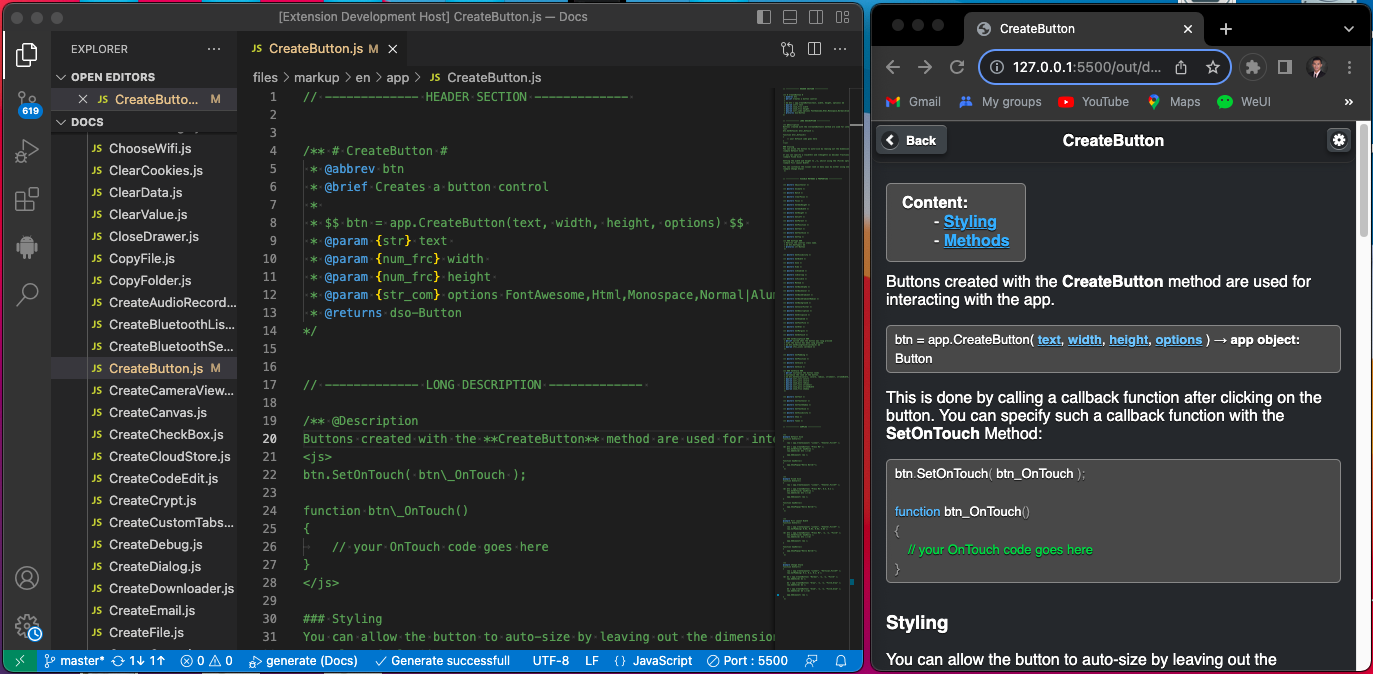
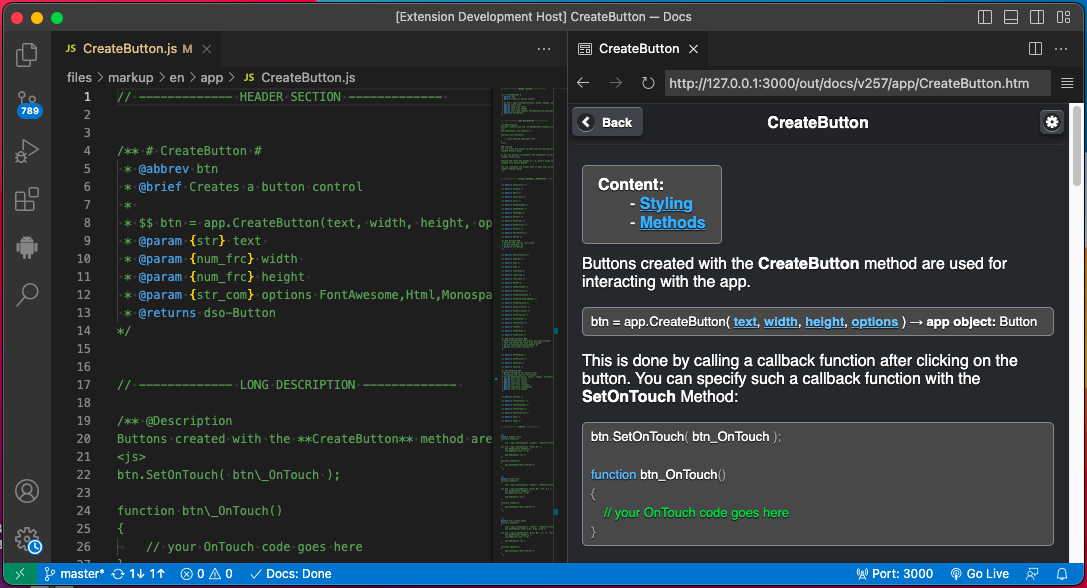
release version 0.1.6 with single file generation

diff --git a/extension.js b/extension.js
@@ -30,6 +30,7 @@ let webViewPanel;
 
 let languageFilter = "*", versionFilter = "*", scopeFilter = "*", nameFilter = "*";
 let lastCommand = "", working = false;
+let LANG = "en";
 
 /** @type {DSConfig} */
 let conf;
@@ -89,10 +90,12 @@ function activate(context) {
     subscribe("preview", openWithLiveServer);
     subscribe("generateFile", generateFile);
 
-    vscode.workspace.onDidSaveTextDocument(event => generateFile(event.uri));
+    // vscode.workspace.onDidSaveTextDocument(event => generateFile(event.uri));
 
     vscode.languages.registerCompletionItemProvider('javascript', { provideCompletionItems });
     vscode.languages.registerCompletionItemProvider('markdown', { provideCompletionItems });
+
+    getAllMarkupFiles();
 }
 
 // This method is called when your extension is deactivated
@@ -100,6 +103,19 @@ function deactivate() {
     generateBtn.dispose();
     webViewPanel.dispose();
     vscode.commands.executeCommand('livePreview.end');
+}
+
+function getAllMarkupFiles() {
+    const p = path.join(folderPath, "files", "markup", LANG);
+    let fdrs = fs.readdirSync( p );
+    fdrs = fdrs.filter(m => {
+        let g = fs.statSync(path.join(p, m));
+        return g.isDirectory();
+    });
+    /** @type {Array<String>} */
+    const mkfls = [];
+    fdrs.forEach(m =>  mkfls.push(...fs.readdirSync(path.join(p, m))));
+    vscode.commands.executeCommand('setContext', 'droidscript-docs.markupfiles', mkfls);
 }
 
 const generateOptions = { clean: false, clear: false, update: false, add: "", value: "", gen: true };

diff --git a/README.md b/README.md
@@ -4,18 +4,18 @@ An extension to edit and view DroidScript Docs.
 
 ![DroidScript Docs](./img/screenshot-main.png)
 
-### Shortcuts:
+## Shortcuts:
 - `alt+d` - Show & Select Command List
 - `ctrl+alt+d` - Generate Docs
 
-### How to start editing
+## How to start editing
 1. Login to your GitHub account and fork the [DroidScript Docs](https://github.com/DroidScript/Docs) repository on Github.
 2. Clone the forked repository in your local machine for you to edit the Docs locally using VS Code.
 3. After cloning, open **Docs** in VS Code and this extension will automatically detect the folder as **DroidScript Docs** and append the **Generate Docs** button in the status bar of VS Code.
 
 ![Generate Docs Screenshot](./img/screenshot-1.png)
 
-### Parameter Data Type Completion
+## Parameter Data Type Completion
 DroidScript Docs has its own custom data types which you can see in the **js markup** files. Though it supports the common data types e.g. _`String`_, _`Number`_, _`Boolean`_, _`Object`_, _`Function`_, _`Array`_, etc., the custom docs data types has an addition description in it.
 
 Examples:
@@ -31,15 +31,30 @@ Memorizing these custom data types is not practical so the extension offers word
 ![Custom Data Types](./img/screenshot-2.png)
 
 
-### How to generate
-- Click the **"Generate Docs"** button item in the status bar.
+## How to generate?
 
-> After the generation, the rendered docs will be opened in a new live-server panel on the right.
+### Option 1 - Generate all scopes
+- Click the **`Generate Docs`** button item in the status bar and select the **`"Generate"`** option in the commands dropdown and select `"Open Docs Preview"` menu in the dropdown context menus.
+
+### Option 2 - Generate specific file
+**Right-Click** on any markup (`".js"`) file and markdown (`".md"`) file within the scopes in the `"markup/<LANG>"` folder.
+
+![Context menu](./img/screenshot-3.png)
+
+You can also **Right-Click** on the editor tab name.
+
+![Context menu](./img/screenshot-4.png)
+
+## Preview
+
+After the generation, the rendered docs will be opened in a new live-server panel on the right. If there is no live preview being shown, click the **`Generate Docs`** button item in the status bar and select `"Open Preview"` command in the commands dropdown.
+
+![Context menu](./img/screenshot-5.png)
 
 
 If you are satisfied with the result of your changes to the Docs, you can commit and push your changes to your copy of the repo and then send a **Pull Request** to DroidScript Docs.
 
-#### Authors
+### Authors
 - **GineersLife:** Jumar Hamac - *hamacjumar@gmail.com*
 
 #### Contributors:

diff --git a/CHANGELOG.md b/CHANGELOG.md
@@ -2,7 +2,10 @@
 
 All notable releases to the **"droidscript-docs"**.
 
-### Verion 0.1.5 - August 27, 2023
+### Version 0.1.6 - September 6, 2023
+- Add `Open Docs Preview` context menu to explorer context and editor title context.
+
+### Version 0.1.5 - August 27, 2023
 By Symbroson
 - add variant, single filter command
 - minor fix
